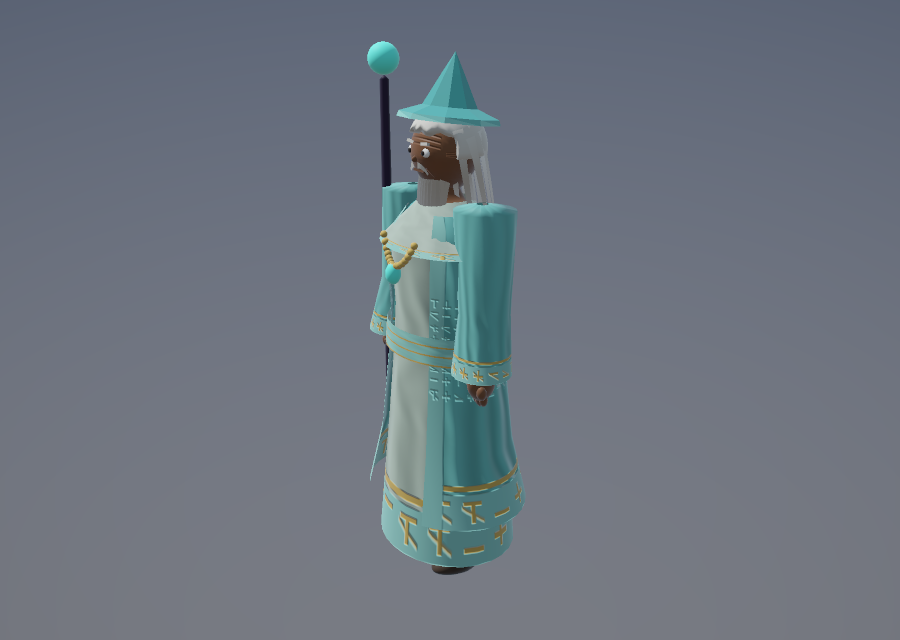
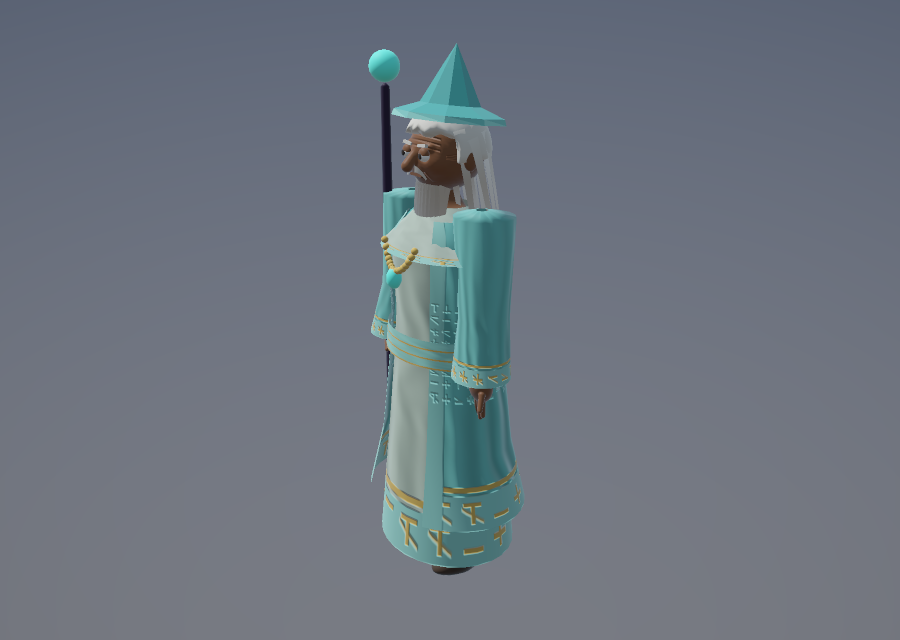
feat(character)!: premium stylized humanoids; bump to v0.4.0
Documents the four shipped premium-humanoid features (proportion canon
with build/frame params, anatomical body landmarks, sculpted SDF heads
with geometry eyes, four-finger hands with staff grip) in CHANGELOG,
README, the GitHub Pages site, and the agent skill docs; bumps
Cargo.toml/Cargo.lock to 0.4.0. Cloth-shell garments were explored and
deferred to a future release (see docs/superpowers/specs/2026-07-07-
premium-stylized-humanoids-design.md section 5); garments keep v0.3.0
construction.

Determinism verified: all 59 non-character gallery recipe hashes are
byte-identical to a v0.3.0 baseline; only the 8 character recipes
changed, as expected. Default-detail character triangle count is
47,892 (2.16x the v0.3.0 baseline of 22,180), within the <=3x budget.

diff --git a/docs/site/index.html b/docs/site/index.html
@@ -400,7 +400,7 @@ footer{border-top:1px solid var(--line);padding:38px 0 60px}
 
 <footer>
   <div class="wrap foot">
-    <div class="lic">MIT © 2026 Victor Bona · imaginu v0.3.0</div>
+    <div class="lic">MIT © 2026 Victor Bona · imaginu v0.4.0</div>
     <div class="links">
       <a href="https://github.com/vicotrbb/imaginu" target="_blank" rel="noopener">Repository</a>
       <a href="https://docs.rs/imaginu" target="_blank" rel="noopener">Docs</a>

diff --git a/CHANGELOG.md b/CHANGELOG.md
@@ -6,6 +6,42 @@ adheres to [Semantic Versioning](https://semver.org/spec/v2.0.0.html).
 
 ## [Unreleased]
 
+## [0.4.0] - 2026-07-07
+
+Premium stylized humanoids: a proportion canon, anatomical body detail, sculpted
+heads, and real hands for the `character` recipe. Determinism holds
+byte-for-byte for every non-character recipe; character GLB hashes change
+because the body/head/hand geometry changed. A draping cloth-shell garment
+system was explored but deferred - garments keep the v0.3.0 construction for
+now (see `docs/superpowers/specs/2026-07-07-premium-stylized-humanoids-design.md`).
+
+### Added
+
+- **Proportion canon.** `Proportions::derive(height, bulk, build, frame)` is
+  now the single source of truth for body measurements. New, optional
+  `CharacterParams` fields `build` (`slim | average | heavy | heroic`) and
+  `frame` (`masculine | feminine | neutral`) scale limb/torso radii and
+  hip/shoulder width ratio; both default to `average`/`neutral`, which is
+  algebraically identical to the prior hard-coded constants, so existing
+  recipes render unchanged unless they opt in.
+- **Anatomical body landmarks + higher resolution.** The body SDF field is
+  sampled at higher resolution with anatomical landmarks (clavicle, waist,
+  hip, knee, ankle) driving the silhouette, instead of a handful of coarse
+  round-cones.
+- **Sculpted SDF heads with geometry eyes.** Heads are sculpted (brow ridge,
+  cheekbones, jaw, chin) with real geometry eyes (recessed sockets, centered
+  irises), ears, and nose, replacing the earlier flat-shaded primitive head.
+- **Four-finger hands with staff grip.** Hands are built from four
+  individually posed fingers plus a thumb instead of a single mitten shape,
+  and characters holding a `staff` accessory now grip it with a closed hand.
+
+### Changed
+
+- Default-detail character triangle count is now ~2.1x the v0.3.0 baseline
+  (47,892 vs 22,180 for a representative recipe), well inside the 3x poly
+  budget for this phase.
+- `imaginu schema` cheat-sheet documents the new `build`/`frame` params.
+
 ## [0.3.0] - 2026-07-07
 
 A new first-class recipe kind - **boss** - for multi-phase encounter creatures,
@@ -105,6 +141,7 @@ landed across the project's five development phases and is available in `0.1.0`.
   `imaginu::Error`; the public boundary returns `Result` instead of panicking
   on malformed or hostile recipe JSON.
 
-[Unreleased]: https://github.com/vicotrbb/imaginu/compare/v0.3.0...HEAD
+[Unreleased]: https://github.com/vicotrbb/imaginu/compare/v0.4.0...HEAD
+[0.4.0]: https://github.com/vicotrbb/imaginu/compare/v0.3.0...v0.4.0
 [0.3.0]: https://github.com/vicotrbb/imaginu/compare/v0.2.0...v0.3.0
 [0.1.0]: https://github.com/vicotrbb/imaginu/releases/tag/v0.1.0

diff --git a/skill/imaginu/SKILL.md b/skill/imaginu/SKILL.md
@@ -67,8 +67,11 @@ different variation of the same recipe.
 ### Characters, animation, and worlds
 
 ```sh
-# A rigged character with 8 clips (idle/walk/run/attack/sit/wave/death/dance):
-imaginu generate '{"kind":"character","class":"warrior","animate":true}' -o hero.glb --preview
+# A rigged character with 8 clips (idle/walk/run/attack/sit/wave/death/dance).
+# `build` (slim/average/heavy/heroic) and `frame` (masculine/feminine/neutral)
+# are optional proportion knobs - both default to average/neutral, which is
+# identical to omitting them:
+imaginu generate '{"kind":"character","class":"warrior","build":"heavy","frame":"masculine","animate":true}' -o hero.glb --preview
 
 # Look at a specific animation pose (4 phases, or one --at time):
 imaginu render '{"kind":"character","class":"mage","animate":true}' --animation walk -o frames/

diff --git a/README.md b/README.md
@@ -91,8 +91,8 @@ imaginu generate '{"kind":"tree","style":"oak"}' -o tree.glb --preview
 # The whole recipe contract, any time:
 imaginu schema
 
-# A rigged, animated character:
-imaginu generate '{"kind":"character","class":"warrior","animate":true}' -o hero.glb
+# A rigged, animated character (build: slim|average|heavy|heroic, frame: masculine|feminine|neutral):
+imaginu generate '{"kind":"character","class":"warrior","build":"heavy","animate":true}' -o hero.glb
 
 # A rigged, animated monster (8 body plans + class presets):
 imaginu generate '{"kind":"monster","body":"wyrm","class":"elemental"}' -o wyrm.glb